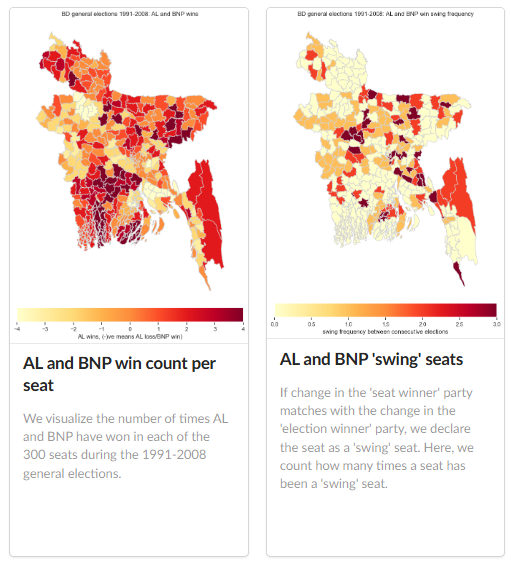
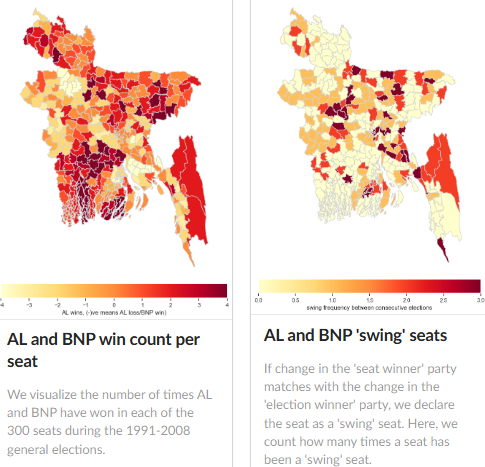
fixed vite fetch assets, cards, cropped ss

diff --git a/src/routes/data/+page.svelte b/src/routes/data/+page.svelte
@@ -18,44 +18,44 @@
 <!-- /data route -->
 <PageHeading {heading} {subheading} />
 
-<!-- data files and preview -->
-{#each data.results as filedata}
-	<DataSegment {filedata} />
-{/each}
+<div class="ui container">
+	<!-- data files and preview -->
+	{#each data.results as filedata}
+		<DataSegment {filedata} />
+	{/each}
 
-
-<!-- shapefile -->
-<div class="ui very padded basic segment">
-    <!-- file name with link to github -->
-    <div class="ui fitted compact basic segment">
-        <a href={shapefileData.html_url} class="filename" target="_blank">
-            <span class="ui large text">{shapefileData.name}</span>
-        </a>
-    </div>
-    <!-- description and attribution -->
-    <div class="ui fitted compact basic segment">
-        <p>{shapefileData.description}</p>
-		<p>
-			<i class="ui text grey">
-				Attribution: Shapefile generated from <a href={shapefileData.attribution_link}>link</a>
-			</i>
-		</p>
-    </div>
-    <!-- columns -->
-	<div class="ui fitted compact basic segment">
-		<p class="data-preview">Shapefile columns:</p>
-		<table class="ui very compact small stackable table">
-			<thead>
-				<tr>
-					{#each shapefileData.columns as col}
-						<th>{col}</th>
-					{/each}
-				</tr>
-			</thead>
-		</table>
+	<!-- shapefile -->
+	<div class="ui very padded basic segment">
+		<!-- file name with link to github -->
+		<div class="ui fitted compact basic segment">
+			<a href={shapefileData.html_url} class="filename" target="_blank">
+				<span class="ui large text">{shapefileData.name}</span>
+			</a>
+		</div>
+		<!-- description and attribution -->
+		<div class="ui fitted compact basic segment">
+			<p>{shapefileData.description}</p>
+			<p>
+				<i class="ui text grey">
+					Attribution: Shapefile generated from <a href={shapefileData.attribution_link}>link</a>
+				</i>
+			</p>
+		</div>
+		<!-- columns -->
+		<div class="ui fitted compact basic segment">
+			<p class="data-preview">Shapefile columns:</p>
+			<table class="ui very compact small stackable table">
+				<thead>
+					<tr>
+						{#each shapefileData.columns as col}
+							<th>{col}</th>
+						{/each}
+					</tr>
+				</thead>
+			</table>
+		</div>
 	</div>
 </div>
-
 
 <!-- data source -->
 <div class="ui container">

diff --git a/vite.config.js b/vite.config.js
@@ -4,40 +4,6 @@ import fs from 'fs'
 import path from 'path'
 import fetch from 'node-fetch'
 
-// read data json files
-const readDataFiles = () => {
-	const analysisItemsPath = path.resolve('src', 'lib', 'data', 'analysisItems.json')
-	const analysisItemsText = fs.readFileSync(analysisItemsPath, {encoding: 'utf8'})
-	const analysisItems = JSON.parse(analysisItemsText)
-
-	const electoralItemsPath = path.resolve('src', 'lib', 'data', 'electoralItems.json')
-	const electoralItemsText = fs.readFileSync(electoralItemsPath, {encoding: 'utf8'})
-	const electoralItems = JSON.parse(electoralItemsText)
-
-	return {analysis: analysisItems, electoral: electoralItems}
-}
-
-// gather name of files which need to be fetched
-const getFileNames = (data) => {
-	let filenames = []
-	data.analysis.forEach(item => {
-		item.sections.forEach(section => {
-			if (section.type == 'data' || section.type == 'map') {
-				filenames.push({
-					type: section.type,
-					name: section.file_name
-				})
-			}
-		})
-	})
-	data.electoral.years.forEach(year => {		
-		filenames.push({
-			type: 'data',
-			name: `method_big_${year}.csv`
-		})
-	})
-	return filenames
-}
 
 
 const fetchAssets = () => ({
@@ -64,7 +30,7 @@ const fetchAssets = () => ({
 					const data = await res.json();
 					if (!data || !Array.isArray(data)) throw new Error(`${name} folder contents not found`);
 
-					return new Promise((resolve, reject) => {
+					return new Promise((resolve) => {
 						resolve({ name, data })
 					})
 				})
@@ -85,7 +51,7 @@ const fetchAssets = () => ({
 			// fetch all files from each folder
 			allFiles.forEach(async (file) => {
 				let name = file.name || '';
-				let download_url = file.download_url || '';
+				let download_url = file.url || '';
 				let folder = file.folder || '';
 
 				if (download_url == '') throw new Error(`empty download link for file ${name}`)

diff --git a/src/lib/components/HomepageCards.svelte b/src/lib/components/HomepageCards.svelte
@@ -5,9 +5,9 @@
 
 <!-- homepage cards -->
 <div class="ui container">
-	<div class="ui {cardCount} stackable inverted cards">
+	<div class="ui {cardCount} stackable cards">
 		{#each menuData as menu}
-			<a class="ui card" href={menu.href}>
+			<a class="ui raised card" href={menu.href}>
 				<img class="image" src={menu.img_src} alt={menu.img_alt} />
 				<div class="content">
 					<h2 class="header">{menu.title}</h2>
@@ -25,5 +25,12 @@
 		height: 300px;
 		width: 100%;
 		object-fit: cover;
+		opacity: 0.7;
+	}
+	.card {
+		margin-bottom: 4rem !important;
+	}
+	.card:hover img {
+		opacity: 0.9;
 	}
 </style>

diff --git a/src/lib/components/Logo.svelte b/src/lib/components/Logo.svelte
@@ -1,4 +1,4 @@
 <a class="ui header" href="https://google.com">
-    <img src="/logo.svg" alt="BD Elections" height="1.5rem">
+    <img src="/logo.svg" alt="BD Elections" height="1rem">
     <div class="ui content huge text">BD Elections</div>
 </a>

diff --git a/src/lib/components/AnalysisCards.svelte b/src/lib/components/AnalysisCards.svelte
@@ -28,5 +28,9 @@
 		height: 300px;
         width: 100%;
 		object-fit: cover;
+        opacity: 0.8;
 	}
+    .card {
+        margin-bottom: 4rem !important;
+    }
 </style>
